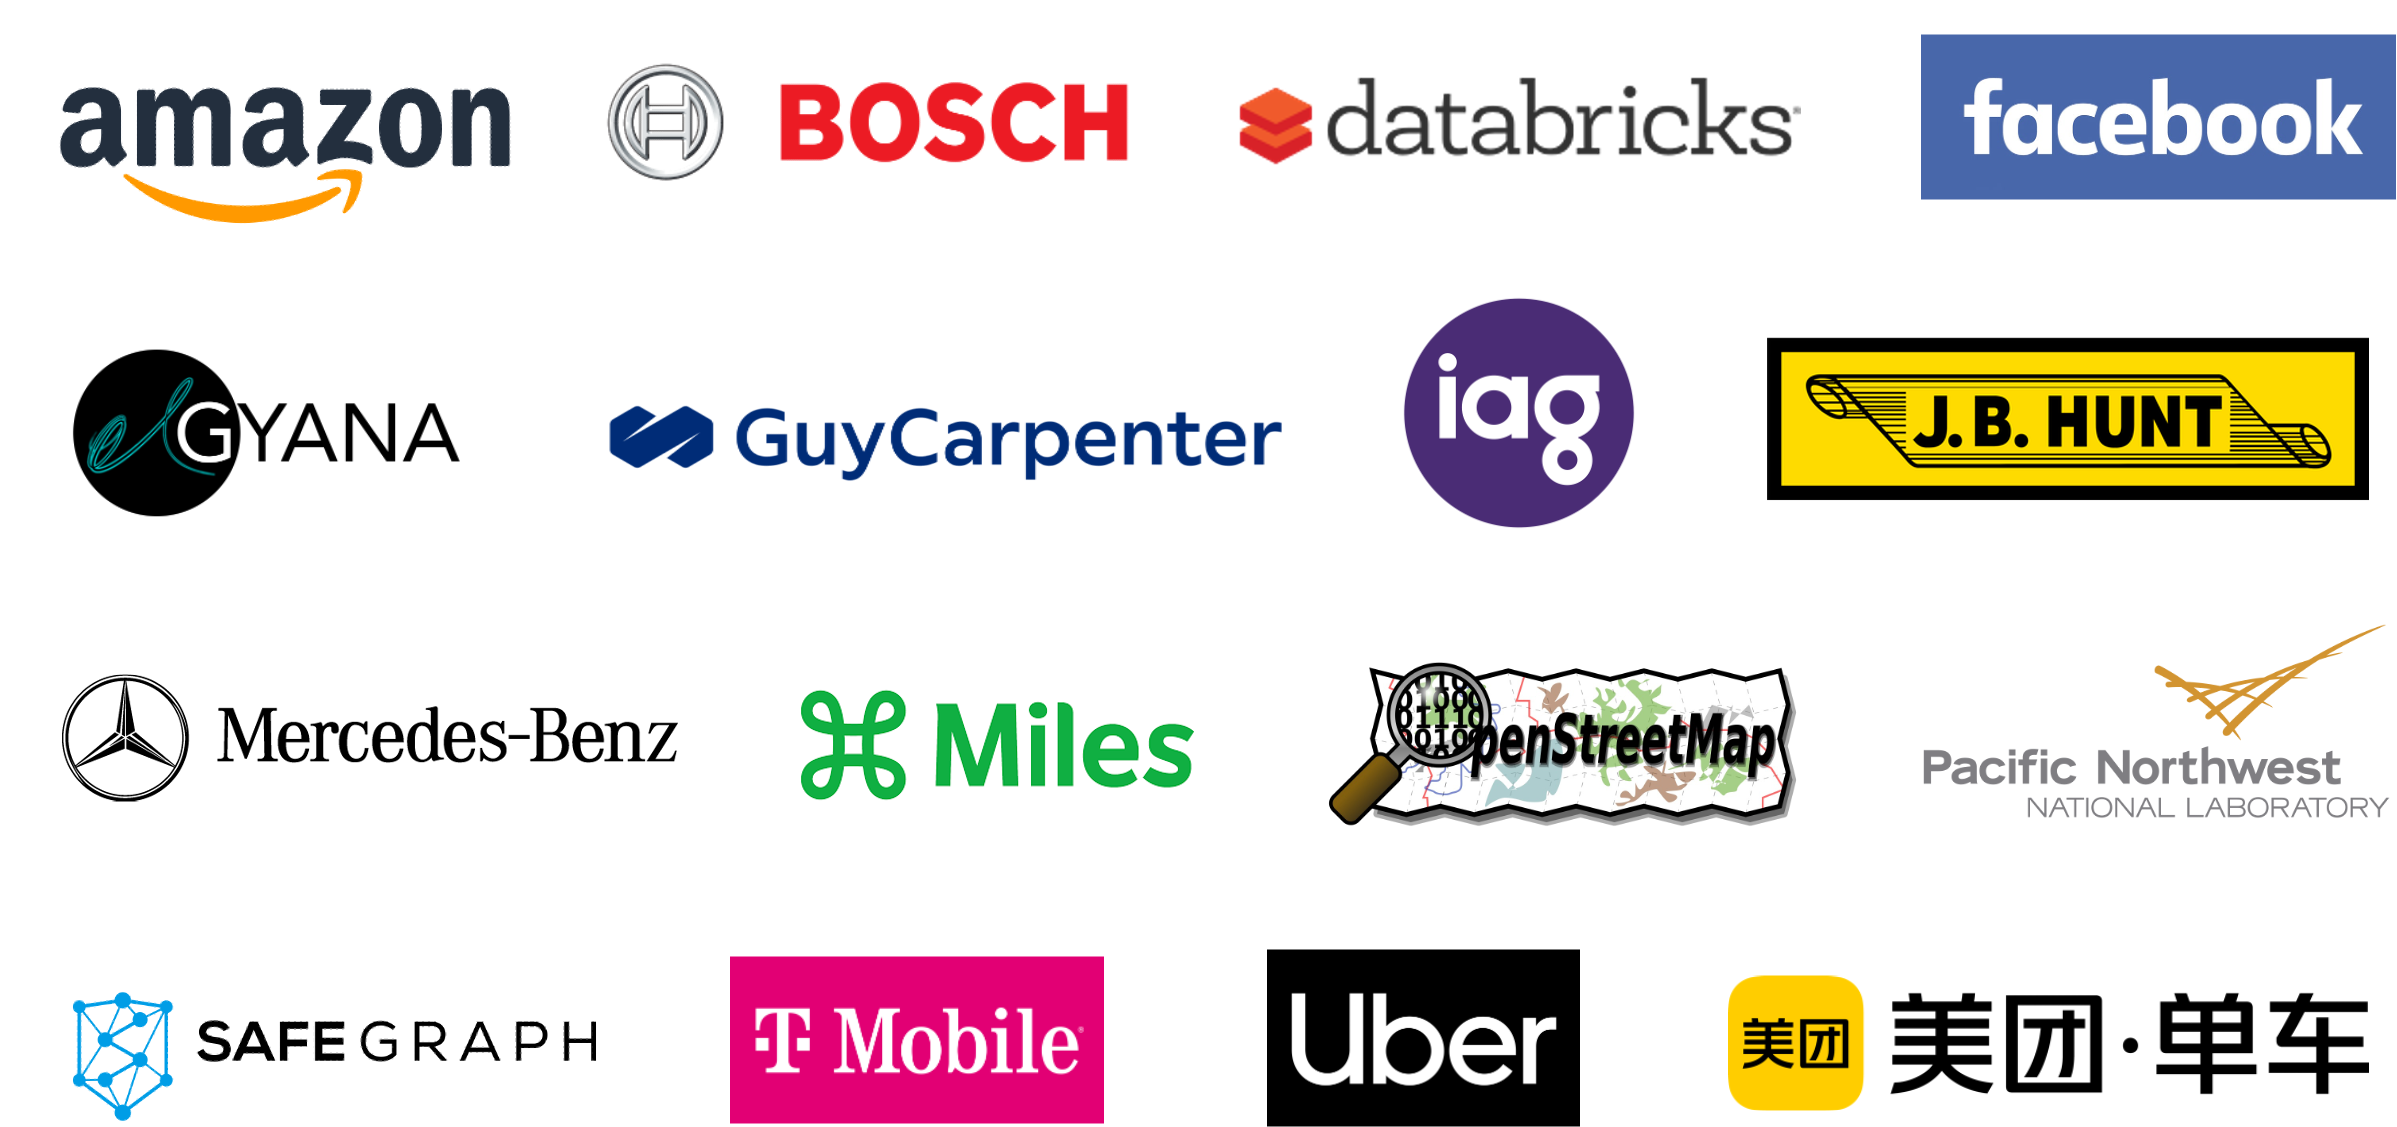
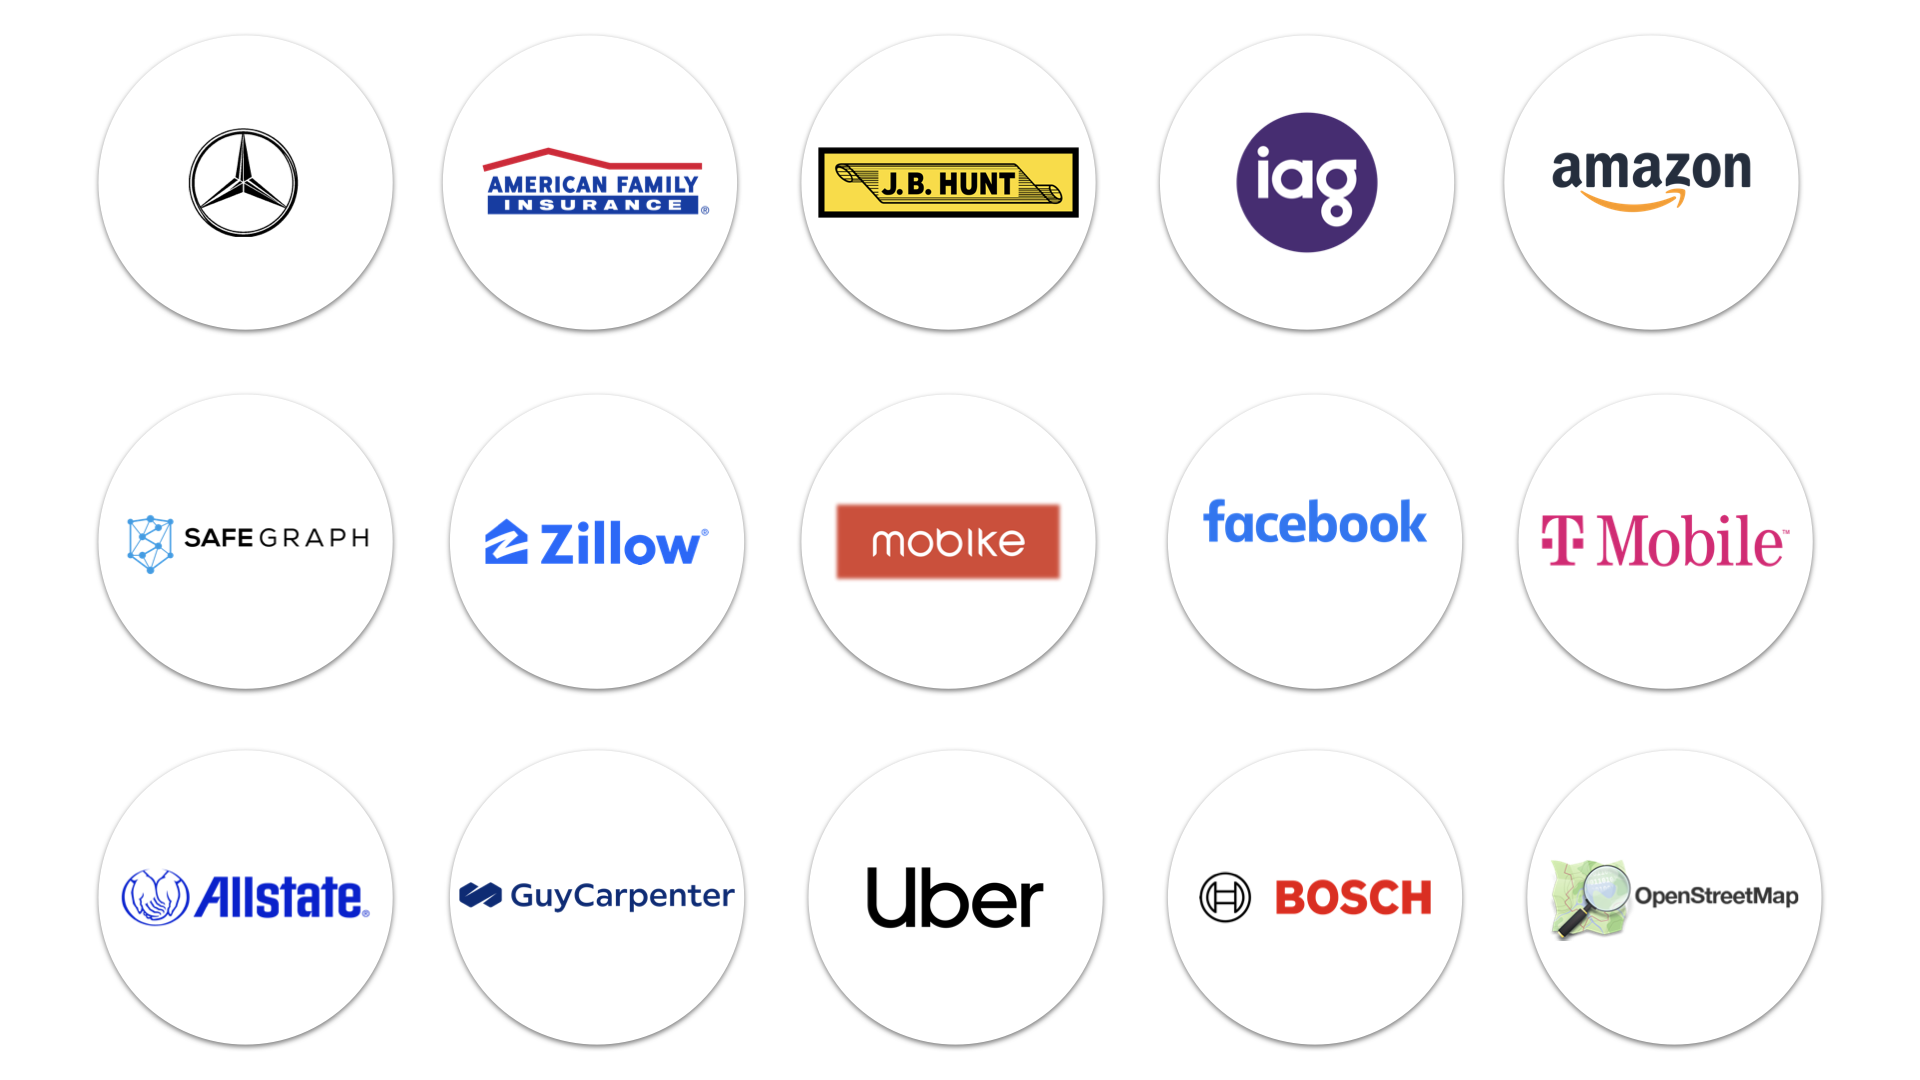
[DOCS] Update figs in README

diff --git a/README.md b/README.md
@@ -146,7 +146,7 @@ Package Download Statistics:
 
 Our users and code contributors are from:
 
-<img src="docs/image/SedonaUsers.001.png" width="600">
+<img src="docs/image/sedona-community.png" width="600">
 
 
 ## Powered by
